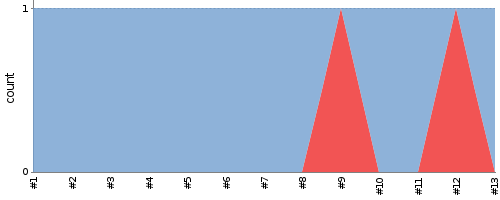
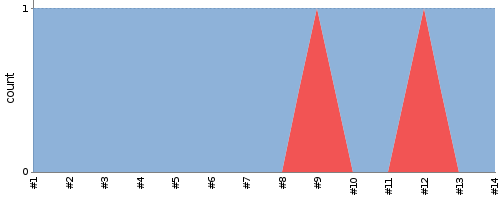
update report

diff --git a/index.md b/index.md
@@ -1,7 +1,7 @@
 ---
 layout: default
 ---
-Last update : 2016/01/30 02:02:33
+Last update : 2016/01/30 02:10:33
   
 ### Job Summary
 ___
@@ -144,11 +144,12 @@ ___
 ___
 #### Build Stability
 ![Jenkins Icon](http://jenkinshrg.github.io/images/48x48/health-60to79.png)
-62%
+64%
   
 #### Build History
 |Status|Time|Duration|Inspection|Test|Coverage|Changes|Build|Console|Image|Video|Note|
 |---|---|---|---|---|---|---|---|---|---|---|---|---|
+|![Jenkins Icon](http://jenkinshrg.github.io/images/24x24/blue.png)SUCCESS|2016/01/30 02:00|8 min.||0 err.||||[irex-balance-beam-auto.txt](https://drive.google.com/file/d/0B54sHwaxmuM4Y0hDeEJkQUx1ZG8/view?usp=drivesdk)<br>|[irex-balance-beam-auto.png](https://drive.google.com/file/d/0B54sHwaxmuM4X1BFMzNhX3FZc0k/view?usp=drivesdk)<br>|[irex-balance-beam-auto.ogv](https://drive.google.com/file/d/0B54sHwaxmuM4SUstUlVQR1ZZN1k/view?usp=drivesdk)<br>||
 |![Jenkins Icon](http://jenkinshrg.github.io/images/24x24/blue.png)SUCCESS|2016/01/30 01:00|8 min.||0 err.||||[irex-balance-beam-auto.txt](https://drive.google.com/file/d/0B54sHwaxmuM4a3JHa01rVVYwTkE/view?usp=drivesdk)<br>|[irex-balance-beam-auto.png](https://drive.google.com/file/d/0B54sHwaxmuM4WFo5MzZENHlPYzQ/view?usp=drivesdk)<br>|[irex-balance-beam-auto.ogv](https://drive.google.com/file/d/0B54sHwaxmuM4aHkxQ2ZNRDdSTWc/view?usp=drivesdk)<br>||
 |![Jenkins Icon](http://jenkinshrg.github.io/images/24x24/yellow.png)UNSTABLE|2016/01/30 00:00|8 min.||1 err.||||[irex-balance-beam-auto.txt](https://drive.google.com/file/d/0B54sHwaxmuM4MGp4MlVaUjN5dkU/view?usp=drivesdk)<br>|[irex-balance-beam-auto.png](https://drive.google.com/file/d/0B54sHwaxmuM4R0hSZHQ0TkxOcFk/view?usp=drivesdk)<br>|[irex-balance-beam-auto.ogv](https://drive.google.com/file/d/0B54sHwaxmuM4cTAtNHdzUjNDTk0/view?usp=drivesdk)<br>||
 |![Jenkins Icon](http://jenkinshrg.github.io/images/24x24/blue.png)SUCCESS|2016/01/29 23:00|8 min.||0 err.||||[irex-balance-beam-auto.txt](https://drive.google.com/file/d/0B54sHwaxmuM4ZEhWeXZncGppM28/view?usp=drivesdk)<br>|[irex-balance-beam-auto.png](https://drive.google.com/file/d/0B54sHwaxmuM4ZlNJUTRlMzdySWs/view?usp=drivesdk)<br>|[irex-balance-beam-auto.ogv](https://drive.google.com/file/d/0B54sHwaxmuM4ZWl6MkdmN1JPWm8/view?usp=drivesdk)<br>||
